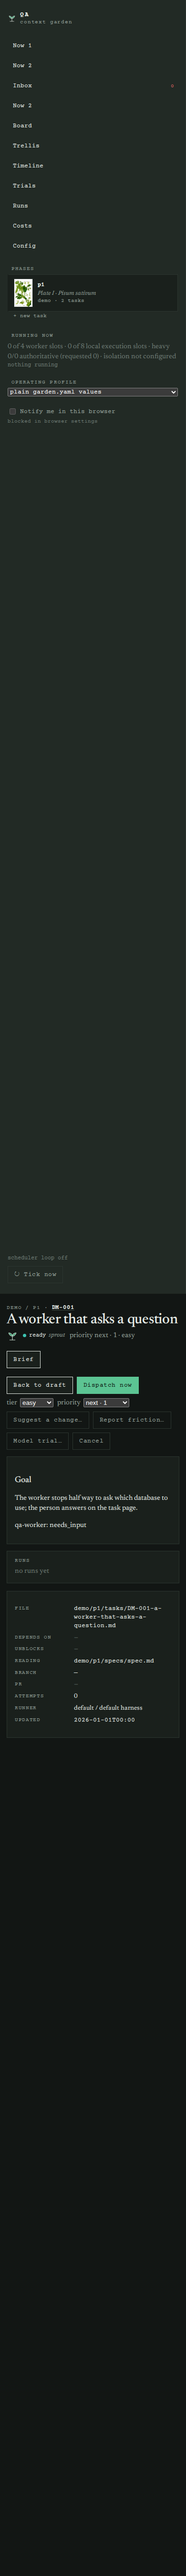
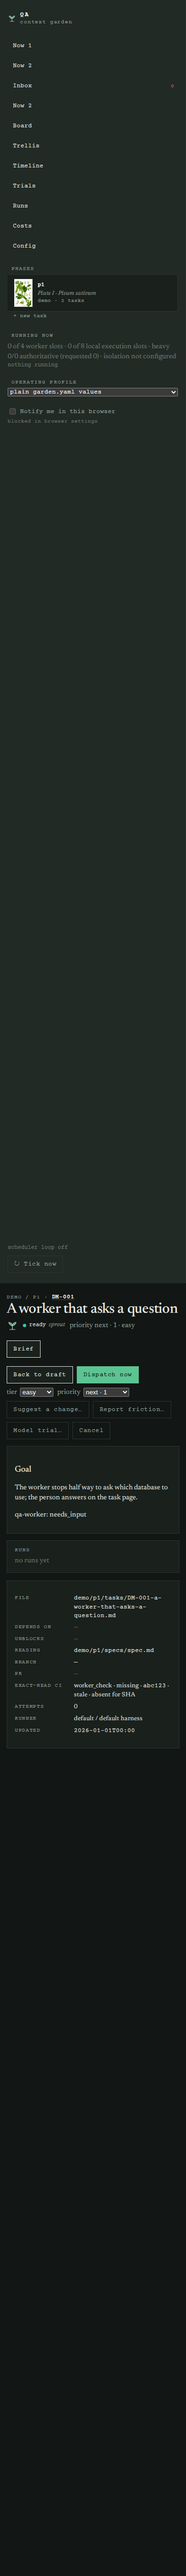
Show stale and absent exact-head status together

Changed region(s): [[0.0308, 0.4978, 0.9538, 0.6844], [0.4, 0.6222, 0.7692, 0.6844]]

diff --git a/docs/design/captures/cg-396/task.html b/docs/design/captures/cg-396/task.html
@@ -321,7 +321,7 @@ pre.log { margin:0; max-height:70vh; overflow:auto; background:var(--surface-2);
 </style>
 
 </head>
-<body class="" data-server-now="2026-09-08T15:36:17+00:00">
+<body class="" data-server-now="2026-09-08T17:08:30+00:00">
 
 <svg width="0" height="0" style="position:absolute" aria-hidden="true"><defs>
 <pattern id="hatch" patternUnits="userSpaceOnUse" width="4" height="4" patternTransform="rotate(45)"><rect width="4" height="4" fill="var(--leaf-tint)"/><line x1="0" y1="0" x2="0" y2="4" stroke="var(--hatch)" stroke-width="0.7"/></pattern>
@@ -443,20 +443,20 @@ pre.log { margin:0; max-height:70vh; overflow:auto; background:var(--surface-2);
     <a href="/trials" class="">Trials</a>
     <a href="/runs" class="">Runs</a>
     <a href="/costs" class="">Costs</a>
-    
+
     <a href="/config" class="">Config</a>
   </nav>
   <div>
     <h4>Phases</h4>
     <a class="drawer " href="/phases/demo/p1"><span class="thumb"><img src="/static/plates/pea-thumb.webp" alt="" width="38" height="58" loading="lazy"></span><span class="k"><b>p1</b><i>Plate I · Pisum sativum</i><span>demo · 2 tasks</span></span></a><a href="/phases/demo/p1#new-task" style="display:block; margin:-5px 0 8px 12px; font:11px var(--mono); color:var(--muted); text-decoration:none">+ new task</a>
-    
-    
+
+
   </div>
   <div class="rail-running">
     <h4>Running now</h4>
     <span class="faint">0 of 4 worker slots · 0 of 8 local execution slots · heavy 0/0 authoritative (requested 0) · isolation not configured</span>
-    
-    
+
+
     <div class="running-now">
       <span class="faint">nothing running</span>
     </div>
@@ -471,17 +471,17 @@ pre.log { margin:0; max-height:70vh; overflow:auto; background:var(--surface-2);
       <noscript><button type="submit" class="quiet">Switch</button></noscript>
       <span class="autosave-mark" aria-live="polite"></span>
     </form>
-    
-    
+
+
   </div>
   <div class="notify" id="notify">
     <label class="check"><input type="checkbox" id="notify-toggle"> Notify me in this browser</label>
     <span class="notify-state faint" id="notify-state"></span>
   </div>
   <div class="foot">
-    
+
     <span>scheduler loop off</span>
-    
+
     <form method="post" action="/tick"><button class="quiet" title="Reap finished workers, poll PRs, dispatch ready tasks">↻ Tick now</button></form>
   </div>
 </aside>
@@ -503,32 +503,32 @@ pre.log { margin:0; max-height:70vh; overflow:auto; background:var(--surface-2);
 
 
 <div class="actions" style="margin-bottom:14px">
-  
+
   <form class="inline" method="post" action="/tasks/DM-001/unapprove"><button>Back to draft</button></form>
   <form class="inline" method="post" action="/tasks/DM-001/dispatch"><button class="primary" >Dispatch now</button></form>
-  
-  
-  
-  
+
+
+
+
   <form class="inline" method="post" action="/tasks/DM-001/difficulty" style="display:inline-flex;gap:6px;align-items:center" title="Model tier at dispatch" data-autosave><label class="muted" for="difficulty">tier</label><select id="difficulty" name="note" onchange="this.form.requestSubmit()"><option value="easy" selected>easy</option><option value="medium">medium</option><option value="hard">hard</option></select><span class="autosave-mark" aria-live="polite"></span></form>
   <form class="inline" method="post" action="/tasks/DM-001/priority" style="display:inline-flex;gap:6px;align-items:center" title="Lower dispatches first" data-autosave><label class="muted" for="priority">priority</label><select id="priority" name="note" onchange="this.form.requestSubmit()"><option value="0">first · 0</option><option value="1" selected>next · 1</option><option value="2">normal · 2</option><option value="3">later · 3</option><option value="4">someday · 4</option></select><span class="autosave-mark" aria-live="polite"></span></form>
-  
+
 
   <button class="quiet" data-toggle="suggest-form">Suggest a change…</button>
-  
+
   <button class="quiet" data-toggle="friction-form">Report friction…</button>
-  
+
   <button class="quiet" data-toggle="trial-form">Model trial…</button>
-  
+
   <form class="inline" method="post" action="/tasks/DM-001/cancel"><button class="quiet danger">Cancel</button></form>
 </div>
 <div id="persona-form" class="panel" hidden><form method="post" action="/tasks/DM-001/persona" class="actions"><span class="muted">Personas:</span><input type="text" name="note" placeholder="security, user" style="width:260px"><button class="primary">Run persona review</button><span class="faint">available: designer, product-manager, project-manager, security, staff-engineer, usability-expert, user</span></form></div>
 <div id="trial-form" class="panel" hidden>
   <div class="eyebrow">Start a model trial</div>
-  
+
   <form method="post" action="/tasks/DM-001/trial" class="trial-form" data-trial-form data-harnesses='{"claude": ["qa-easy", "qa-medium", "qa-hard", "sonnet", "opus", "haiku", "fable", "claude-sonnet-5", "claude-opus-4-8"]}' data-default-harness="claude">
     <input type="hidden" name="note">
-    
+
     <div class="trial-rows"></div>
     <div class="actions" style="margin-top:8px"><button type="button" class="quiet trial-add">+ Add contender</button><button class="primary">Start trial</button></div>
   </form>
@@ -560,43 +560,43 @@ pre.log { margin:0; max-height:70vh; overflow:auto; background:var(--surface-2);
     <div class="panel prose"><h2>Goal</h2>
 <p>The worker stops half way to ask which database to use; the person answers on the task page.</p>
 <p>qa-worker: needs_input</p></div>
-    
-    
-    
-    
-    
-    
-    
-    
-    
-    
-    
-    
-    
+
+
+
+
+
+
+
+
+
+
+
+
+
     <div class="panel"><div class="eyebrow">Runs</div>
       <div id="runs" data-poll="/partials/tasks/DM-001/runs" data-every="5000" style="margin-top:6px"><span class="faint">no runs yet</span></div>
     </div>
-    
-    
+
+
   </div>
   <div class="stack">
     <div class="panel">
       <dl class="kv">
         <dt>file</dt><dd class="mono">demo/p1/tasks/DM-001-a-worker-that-asks-a-question.md</dd>
-        
-        
-        
-        
+
+
+
+
         <dt>depends on</dt><dd><span class="faint">—</span></dd>
         <dt>unblocks</dt><dd><span class="faint">—</span></dd>
         <dt>reading</dt><dd><span class="mono">demo/p1/specs/spec.md</span><br></dd>
         <dt>branch</dt><dd class="mono">—</dd>
         <dt>PR</dt><dd><span class="faint">—</span></dd>
-        
-        
-        
-        
-        
+
+        <dt>exact-head CI</dt><dd>worker_check · missing · <span class="mono">abc123</span> · stale · absent for SHA</dd>
+
+
+
         <dt>attempts</dt><dd>0</dd>
         <dt>runner</dt><dd>default / default harness</dd>
         <dt>updated</dt><dd class="mono">2026-01-01T00:00</dd>

diff --git a/src/garden/web/templates/task.html b/src/garden/web/templates/task.html
@@ -176,7 +176,7 @@
         <dt>branch</dt><dd class="mono">{{ task.branch or '—' }}</dd>
         <dt>PR</dt><dd>{% if task.pr %}<a href="{{ task.pr }}" target="_blank">{{ task.pr }}</a>{% if state.pr_draft %} <span class="badge">draft</span>{% endif %}{% else %}<span class="faint">—</span>{% endif %}</dd>
         {% if state.review_decision or state.checks %}<dt>review / CI</dt><dd>{{ state.review_decision or '—' }} / {{ state.checks or '—' }}{% if state.failed_checks %} ({{ state.failed_checks|join(', ') }}){% endif %}</dd>{% endif %}
-        {% if state.ci_status %}<dt>exact-head CI</dt><dd>{{ state.ci_status.provider }} · {{ state.ci_status.state }} · <span class="mono">{{ state.ci_status.queried_sha[:12] or 'head unavailable' }}</span>{% if state.ci_status.stale %} · stale{% elif not state.ci_status.exists_for_sha %} · absent for SHA{% endif %}{% if state.ci_status.evidence_url %} · <a href="{{ state.ci_status.evidence_url }}" target="_blank">evidence</a>{% endif %}</dd>{% endif %}
+        {% if state.ci_status %}<dt>exact-head CI</dt><dd>{{ state.ci_status.provider }} · {{ state.ci_status.state }} · <span class="mono">{{ state.ci_status.queried_sha[:12] or 'head unavailable' }}</span>{% if state.ci_status.stale %} · stale{% endif %}{% if not state.ci_status.exists_for_sha %} · absent for SHA{% endif %}{% if state.ci_status.evidence_url %} · <a href="{{ state.ci_status.evidence_url }}" target="_blank">evidence</a>{% endif %}</dd>{% endif %}
         {% if state.last_review %}<dt>auto review</dt><dd>{{ state.last_review.verdict.replace('_',' ') }} ({{ state.review_rounds }} round{{ 's' if state.review_rounds != 1 else '' }}){% if state.review_run %} · running{% endif %}</dd>{% endif %}
         {% if state.automerge_blocked and not task.status.terminal %}<dt>automerge</dt><dd>held: {{ state.automerge_blocked }}</dd>{% endif %}
         {% if state.automerged %}<dt>automerge</dt><dd>merged by the garden ({{ state.automerged.method }}, {{ state.automerged.review_rounds }} review round{{ 's' if state.automerged.review_rounds != 1 else '' }})</dd>{% endif %}

diff --git a/src/garden/walkthrough.py b/src/garden/walkthrough.py
@@ -733,9 +733,16 @@ def _index_md(phase: Phase, result: WalkthroughResult) -> str:
 def _seeded_ui_capture(out_dir: Path, pages: list[str] | None = None) -> dict[str, object]:
     """Render the stable QA garden using the code imported from the proposed worktree."""
     from .qa.sandbox import make_garden
+    from .scheduler.state import State
 
     with tempfile.TemporaryDirectory(prefix="garden-ui-") as scratch:
         garden_root = make_garden(Path(scratch))
+        state = State(garden_root / ".garden" / "state.json")
+        state.get("DM-001")["ci_status"] = {
+            "provider": "worker_check", "state": "missing", "queried_sha": "abc123",
+            "stale": True, "exists_for_sha": False, "evidence_url": "", "failures": [],
+        }
+        state.save()
         store = Store(garden_root)
         logs: list[str] = []
         result = capture(store, store.phase("demo", "p1"), out_dir, screenshots=True,

diff --git a/tests/test_walkthrough.py b/tests/test_walkthrough.py
@@ -184,6 +184,9 @@ def test_ui_check_produces_expected_screenshot_artifacts(tmp_path, monkeypatch):
     assert (tmp_path / "ui" / "now.html").exists()
     assert (tmp_path / "ui" / "board.html").exists()
     assert (tmp_path / "ui" / "task.html").exists()
+    task_page = (tmp_path / "ui" / "task.html").read_text()
+    assert "exact-head CI" in task_page
+    assert "stale" in task_page and "absent for SHA" in task_page
     for slug in ("now", "inbox", "board", "task"):
         for width in VIEWPORTS:
             for scheme in COLOR_SCHEMES:

diff --git a/tests/test_web.py b/tests/test_web.py
@@ -139,7 +139,7 @@ def test_task_page_shows_exact_head_ci_freshness_and_absence(garden):
     page = client(garden).get("/tasks/DM-001").text
     assert "exact-head CI" in page
     assert "worker_check · mismatched" in page
-    assert "abc123" in page and "stale" in page
+    assert "abc123" in page and "stale" in page and "absent for SHA" in page
 
 
 def test_operator_owned_scope_is_recorded_from_the_inbox(garden):
